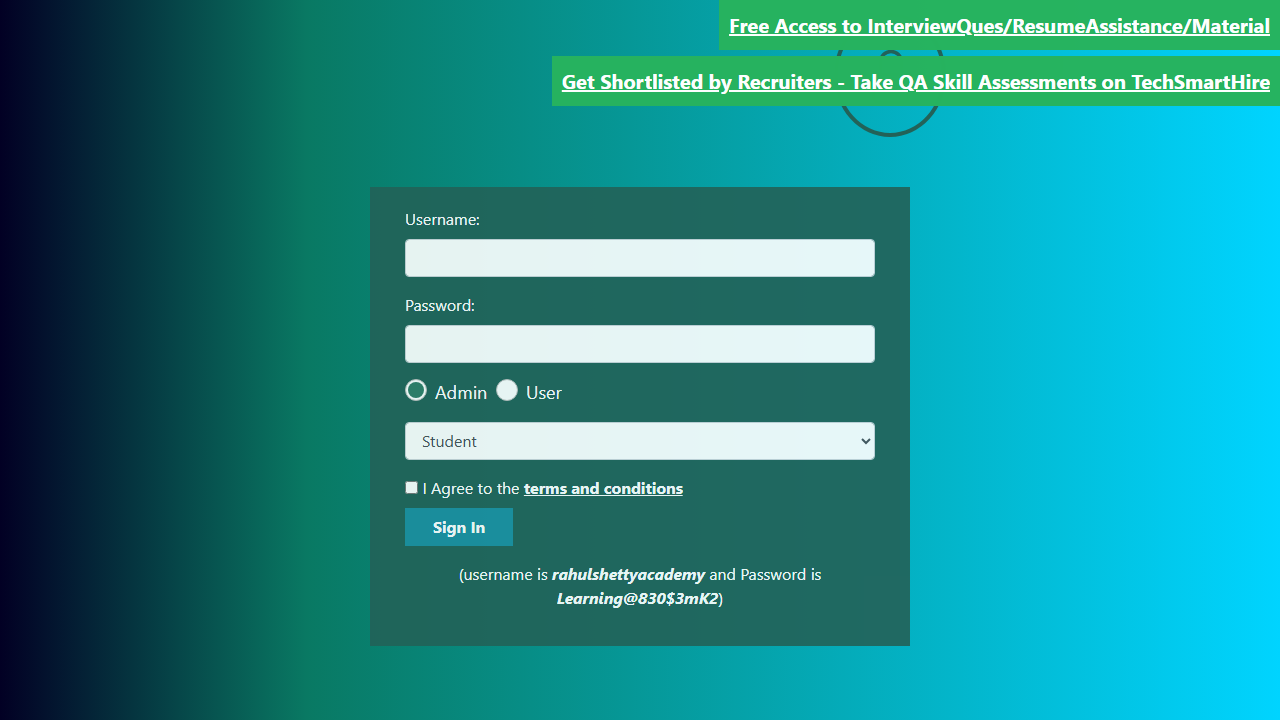
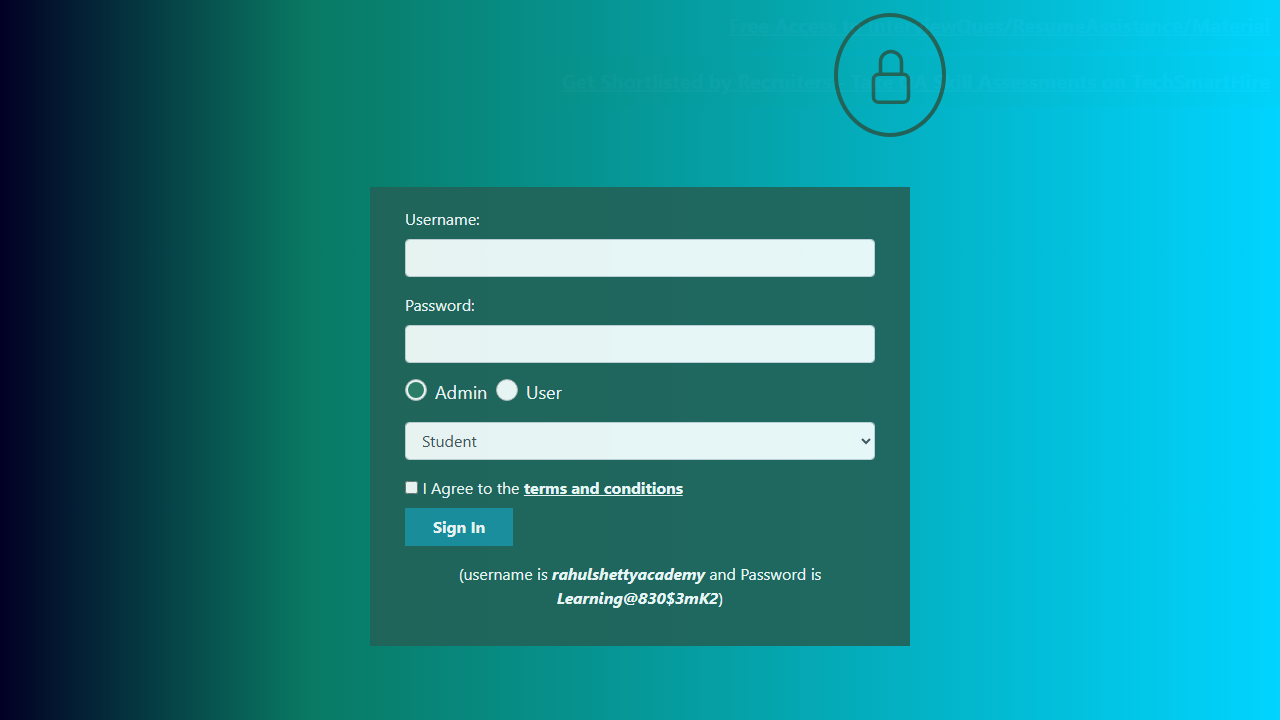
added config.xml for new jenkins scheduled job

Changed region(s): [[0.4062, 0.0, 1.0, 0.1528]]

diff --git a/reports/report.html b/reports/report.html
@@ -328,7 +328,7 @@ div.media {
   </head>
   <body>
     <h1 id="title">report.html</h1>
-    <p>Report generated on 02-Jul-2026 at 09:42:44 by <a href="https://pypi.python.org/pypi/pytest-html">pytest-html</a>
+    <p>Report generated on 02-Jul-2026 at 10:20:56 by <a href="https://pypi.python.org/pypi/pytest-html">pytest-html</a>
         v4.2.0</p>
     <div id="environment-header">
       <h2>Environment</h2>
@@ -383,7 +383,7 @@ div.media {
         <h2>Summary</h2>
         <div class="additional-summary prefix">
         </div>
-        <p class="run-count">4 tests took 00:00:20.</p>
+        <p class="run-count">2 tests took 00:00:31.</p>
         <p class="filter">(Un)check the boxes to filter the results.</p>
         <div class="summary__reload">
           <div class="summary__reload__button hidden" onclick="location.reload()">
@@ -396,7 +396,7 @@ div.media {
             <input checked="true" class="filter" name="filter_checkbox" type="checkbox" data-test-result="failed" disabled>
             <span class="failed">0 Failed,</span>
             <input checked="true" class="filter" name="filter_checkbox" type="checkbox" data-test-result="passed" >
-            <span class="passed">4 Passed,</span>
+            <span class="passed">2 Passed,</span>
             <input checked="true" class="filter" name="filter_checkbox" type="checkbox" data-test-result="skipped" disabled>
             <span class="skipped">0 Skipped,</span>
             <input checked="true" class="filter" name="filter_checkbox" type="checkbox" data-test-result="xfailed" disabled>
@@ -431,7 +431,7 @@ div.media {
       </thead>
     </table>
   <footer>
-    <div id="data-container" data-jsonblob="{&#34;environment&#34;: {&#34;Python&#34;: &#34;3.14.3&#34;, &#34;Platform&#34;: &#34;Windows-11-10.0.26200-SP0&#34;, &#34;Packages&#34;: {&#34;pytest&#34;: &#34;9.0.2&#34;, &#34;pluggy&#34;: &#34;1.6.0&#34;}, &#34;Plugins&#34;: {&#34;base-url&#34;: &#34;2.1.0&#34;, &#34;bdd&#34;: &#34;8.1.0&#34;, &#34;html&#34;: &#34;4.2.0&#34;, &#34;metadata&#34;: &#34;3.1.1&#34;, &#34;playwright&#34;: &#34;0.7.2&#34;, &#34;xdist&#34;: &#34;3.8.0&#34;}, &#34;CI&#34;: &#34;true&#34;, &#34;BUILD_NUMBER&#34;: &#34;3&#34;, &#34;BUILD_ID&#34;: &#34;3&#34;, &#34;BUILD_URL&#34;: &#34;http://localhost:9090/job/PythonPlaywright_all_tests_parameterized_job/3/&#34;, &#34;NODE_NAME&#34;: &#34;built-in&#34;, &#34;JOB_NAME&#34;: &#34;PythonPlaywright_all_tests_parameterized_job&#34;, &#34;BUILD_TAG&#34;: &#34;jenkins-PythonPlaywright_all_tests_parameterized_job-3&#34;, &#34;EXECUTOR_NUMBER&#34;: &#34;1&#34;, &#34;JENKINS_URL&#34;: &#34;http://localhost:9090/&#34;, &#34;JAVA_HOME&#34;: &#34;C:\\Program Files\\Microsoft\\jdk-25.0.1.8-hotspot&#34;, &#34;WORKSPACE&#34;: &#34;C:\\Users\\vdevk\\PycharmProjects\\PythonPlaywright&#34;, &#34;Base URL&#34;: &#34;&#34;}, &#34;tests&#34;: {&#34;framework_step1_pageObject_dataDriven_parameterization/test_API_plus_UI_e2e_test_ecommerce_framework1.py::test_API_plus_UI_e2e_test_ecommerce[user_credentials0]&#34;: [{&#34;extras&#34;: [], &#34;result&#34;: &#34;Passed&#34;, &#34;testId&#34;: &#34;framework_step1_pageObject_dataDriven_parameterization/test_API_plus_UI_e2e_test_ecommerce_framework1.py::test_API_plus_UI_e2e_test_ecommerce[user_credentials0]&#34;, &#34;duration&#34;: &#34;00:00:04&#34;, &#34;resultsTableRow&#34;: [&#34;&lt;td class=\&#34;col-result\&#34;&gt;Passed&lt;/td&gt;&#34;, &#34;&lt;td class=\&#34;col-testId\&#34;&gt;framework_step1_pageObject_dataDriven_parameterization/test_API_plus_UI_e2e_test_ecommerce_framework1.py::test_API_plus_UI_e2e_test_ecommerce[user_credentials0]&lt;/td&gt;&#34;, &#34;&lt;td class=\&#34;col-duration\&#34;&gt;00:00:04&lt;/td&gt;&#34;, &#34;&lt;td class=\&#34;col-links\&#34;&gt;&lt;/td&gt;&#34;], &#34;log&#34;: &#34;----------------------------- Captured stdout call -----------------------------\ncreated Order ID:  6a45e52dcd73adf7e58aa6bd\nno of rows in webtable/orders on page: 7\nLatest order ID in Orders list table: 6a45e52dcd73adf7e58aa6bd\norder ID in order Summary: 6a45e52dcd73adf7e58aa6bd\nMessage: Thank you for Shopping With Us\nproduct name in order Summary: iphone 13 pro\nproduct price in order Summary: $ 55000\nproduct price on home page: $ 55000\n&#34;}], &#34;framework_step1_pageObject_dataDriven_parameterization/test_API_plus_UI_e2e_test_ecommerce_framework1.py::test_API_plus_UI_e2e_test_ecommerce[user_credentials1]&#34;: [{&#34;extras&#34;: [], &#34;result&#34;: &#34;Passed&#34;, &#34;testId&#34;: &#34;framework_step1_pageObject_dataDriven_parameterization/test_API_plus_UI_e2e_test_ecommerce_framework1.py::test_API_plus_UI_e2e_test_ecommerce[user_credentials1]&#34;, &#34;duration&#34;: &#34;00:00:04&#34;, &#34;resultsTableRow&#34;: [&#34;&lt;td class=\&#34;col-result\&#34;&gt;Passed&lt;/td&gt;&#34;, &#34;&lt;td class=\&#34;col-testId\&#34;&gt;framework_step1_pageObject_dataDriven_parameterization/test_API_plus_UI_e2e_test_ecommerce_framework1.py::test_API_plus_UI_e2e_test_ecommerce[user_credentials1]&lt;/td&gt;&#34;, &#34;&lt;td class=\&#34;col-duration\&#34;&gt;00:00:04&lt;/td&gt;&#34;, &#34;&lt;td class=\&#34;col-links\&#34;&gt;&lt;/td&gt;&#34;], &#34;log&#34;: &#34;----------------------------- Captured stdout call -----------------------------\ncreated Order ID:  6a45e530cd73adf7e58aa6e1\nno of rows in webtable/orders on page: 7\nLatest order ID in Orders list table: 6a45e530cd73adf7e58aa6e1\norder ID in order Summary: 6a45e530cd73adf7e58aa6e1\nMessage: Thank you for Shopping With Us\nproduct name in order Summary: iphone 13 pro\nproduct price in order Summary: $ 55000\nproduct price on home page: $ 55000\n&#34;}], &#34;framework_step2_GlobalConfig_parallelization_Tagging_htmlReport_screenshots_logs/test_API_plus_UI_e2e_test_ecommerce_framework2.py::test_API_plus_UI_e2e_test_ecommerce[user_credentials0]&#34;: [{&#34;extras&#34;: [], &#34;result&#34;: &#34;Passed&#34;, &#34;testId&#34;: &#34;framework_step2_GlobalConfig_parallelization_Tagging_htmlReport_screenshots_logs/test_API_plus_UI_e2e_test_ecommerce_framework2.py::test_API_plus_UI_e2e_test_ecommerce[user_credentials0]&#34;, &#34;duration&#34;: &#34;00:00:04&#34;, &#34;resultsTableRow&#34;: [&#34;&lt;td class=\&#34;col-result\&#34;&gt;Passed&lt;/td&gt;&#34;, &#34;&lt;td class=\&#34;col-testId\&#34;&gt;framework_step2_GlobalConfig_parallelization_Tagging_htmlReport_screenshots_logs/test_API_plus_UI_e2e_test_ecommerce_framework2.py::test_API_plus_UI_e2e_test_ecommerce[user_credentials0]&lt;/td&gt;&#34;, &#34;&lt;td class=\&#34;col-duration\&#34;&gt;00:00:04&lt;/td&gt;&#34;, &#34;&lt;td class=\&#34;col-links\&#34;&gt;&lt;/td&gt;&#34;], &#34;log&#34;: &#34;----------------------------- Captured stdout call -----------------------------\ncreated Order ID:  6a45e536cd73adf7e58aa71c\nno of rows in webtable/orders on page: 7\nLatest order ID in Orders list table: 6a45e536cd73adf7e58aa71c\norder ID in order Summary: 6a45e536cd73adf7e58aa71c\nMessage: Thank you for Shopping With Us\nproduct name in order Summary: iphone 13 pro\nproduct price in order Summary: $ 55000\nproduct price on home page: $ 55000\n&#34;}], &#34;framework_step2_GlobalConfig_parallelization_Tagging_htmlReport_screenshots_logs/test_API_plus_UI_e2e_test_ecommerce_framework2.py::test_API_plus_UI_e2e_test_ecommerce[user_credentials1]&#34;: [{&#34;extras&#34;: [], &#34;result&#34;: &#34;Passed&#34;, &#34;testId&#34;: &#34;framework_step2_GlobalConfig_parallelization_Tagging_htmlReport_screenshots_logs/test_API_plus_UI_e2e_test_ecommerce_framework2.py::test_API_plus_UI_e2e_test_ecommerce[user_credentials1]&#34;, &#34;duration&#34;: &#34;00:00:04&#34;, &#34;resultsTableRow&#34;: [&#34;&lt;td class=\&#34;col-result\&#34;&gt;Passed&lt;/td&gt;&#34;, &#34;&lt;td class=\&#34;col-testId\&#34;&gt;framework_step2_GlobalConfig_parallelization_Tagging_htmlReport_screenshots_logs/test_API_plus_UI_e2e_test_ecommerce_framework2.py::test_API_plus_UI_e2e_test_ecommerce[user_credentials1]&lt;/td&gt;&#34;, &#34;&lt;td class=\&#34;col-duration\&#34;&gt;00:00:04&lt;/td&gt;&#34;, &#34;&lt;td class=\&#34;col-links\&#34;&gt;&lt;/td&gt;&#34;], &#34;log&#34;: &#34;----------------------------- Captured stdout call -----------------------------\ncreated Order ID:  6a45e539cd73adf7e58aa739\nno of rows in webtable/orders on page: 7\nLatest order ID in Orders list table: 6a45e539cd73adf7e58aa739\norder ID in order Summary: 6a45e539cd73adf7e58aa739\nMessage: Thank you for Shopping With Us\nproduct name in order Summary: iphone 13 pro\nproduct price in order Summary: $ 55000\nproduct price on home page: $ 55000\n&#34;}]}, &#34;renderCollapsed&#34;: [&#34;passed&#34;], &#34;initialSort&#34;: &#34;result&#34;, &#34;title&#34;: &#34;report.html&#34;}"></div>
+    <div id="data-container" data-jsonblob="{&#34;environment&#34;: {&#34;Python&#34;: &#34;3.14.3&#34;, &#34;Platform&#34;: &#34;Windows-11-10.0.26200-SP0&#34;, &#34;Packages&#34;: {&#34;pytest&#34;: &#34;9.0.2&#34;, &#34;pluggy&#34;: &#34;1.6.0&#34;}, &#34;Plugins&#34;: {&#34;base-url&#34;: &#34;2.1.0&#34;, &#34;bdd&#34;: &#34;8.1.0&#34;, &#34;html&#34;: &#34;4.2.0&#34;, &#34;metadata&#34;: &#34;3.1.1&#34;, &#34;playwright&#34;: &#34;0.7.2&#34;, &#34;xdist&#34;: &#34;3.8.0&#34;}, &#34;CI&#34;: &#34;true&#34;, &#34;BUILD_NUMBER&#34;: &#34;1&#34;, &#34;BUILD_ID&#34;: &#34;1&#34;, &#34;BUILD_URL&#34;: &#34;http://localhost:9090/job/PythonPlaywright_all_tests_parameterized_scheduled_job/1/&#34;, &#34;NODE_NAME&#34;: &#34;built-in&#34;, &#34;JOB_NAME&#34;: &#34;PythonPlaywright_all_tests_parameterized_scheduled_job&#34;, &#34;BUILD_TAG&#34;: &#34;jenkins-PythonPlaywright_all_tests_parameterized_scheduled_job-1&#34;, &#34;EXECUTOR_NUMBER&#34;: &#34;1&#34;, &#34;JENKINS_URL&#34;: &#34;http://localhost:9090/&#34;, &#34;JAVA_HOME&#34;: &#34;C:\\Program Files\\Microsoft\\jdk-25.0.1.8-hotspot&#34;, &#34;WORKSPACE&#34;: &#34;C:\\Users\\vdevk\\PycharmProjects\\PythonPlaywright&#34;, &#34;Base URL&#34;: &#34;&#34;}, &#34;tests&#34;: {&#34;API_plus_UI_e2e_test_ecommerce/test_API_plus_UI_e2e_test_ecommerce.py::test_API_plus_UI_e2e_test_ecommerce&#34;: [{&#34;extras&#34;: [], &#34;result&#34;: &#34;Passed&#34;, &#34;testId&#34;: &#34;API_plus_UI_e2e_test_ecommerce/test_API_plus_UI_e2e_test_ecommerce.py::test_API_plus_UI_e2e_test_ecommerce&#34;, &#34;duration&#34;: &#34;00:00:03&#34;, &#34;resultsTableRow&#34;: [&#34;&lt;td class=\&#34;col-result\&#34;&gt;Passed&lt;/td&gt;&#34;, &#34;&lt;td class=\&#34;col-testId\&#34;&gt;API_plus_UI_e2e_test_ecommerce/test_API_plus_UI_e2e_test_ecommerce.py::test_API_plus_UI_e2e_test_ecommerce&lt;/td&gt;&#34;, &#34;&lt;td class=\&#34;col-duration\&#34;&gt;00:00:03&lt;/td&gt;&#34;, &#34;&lt;td class=\&#34;col-links\&#34;&gt;&lt;/td&gt;&#34;], &#34;log&#34;: &#34;----------------------------- Captured stdout call -----------------------------\ncreated Order ID:  6a45ee18cd73adf7e58abbe0\nno of rows in webtable: 7\nLatest order ID in Orders list table: 6a45ee18cd73adf7e58abbe0\norder ID in order Summary: 6a45ee18cd73adf7e58abbe0\nproduct name in order Summary: iphone 13 pro\nproduct price in order Summary: $ 55000\nproduct price on home page: $ 55000\n&#34;}], &#34;test_playwrightbasics.py::test_coreLocators[chromium]&#34;: [{&#34;extras&#34;: [], &#34;result&#34;: &#34;Passed&#34;, &#34;testId&#34;: &#34;test_playwrightbasics.py::test_coreLocators[chromium]&#34;, &#34;duration&#34;: &#34;00:00:22&#34;, &#34;resultsTableRow&#34;: [&#34;&lt;td class=\&#34;col-result\&#34;&gt;Passed&lt;/td&gt;&#34;, &#34;&lt;td class=\&#34;col-testId\&#34;&gt;test_playwrightbasics.py::test_coreLocators[chromium]&lt;/td&gt;&#34;, &#34;&lt;td class=\&#34;col-duration\&#34;&gt;00:00:22&lt;/td&gt;&#34;, &#34;&lt;td class=\&#34;col-links\&#34;&gt;&lt;/td&gt;&#34;], &#34;log&#34;: &#34;No log output captured.&#34;}]}, &#34;renderCollapsed&#34;: [&#34;passed&#34;], &#34;initialSort&#34;: &#34;result&#34;, &#34;title&#34;: &#34;report.html&#34;}"></div>
     <script>
       (function(){function r(e,n,t){function o(i,f){if(!n[i]){if(!e[i]){var c="function"==typeof require&&require;if(!f&&c)return c(i,!0);if(u)return u(i,!0);var a=new Error("Cannot find module '"+i+"'");throw a.code="MODULE_NOT_FOUND",a}var p=n[i]={exports:{}};e[i][0].call(p.exports,function(r){var n=e[i][1][r];return o(n||r)},p,p.exports,r,e,n,t)}return n[i].exports}for(var u="function"==typeof require&&require,i=0;i<t.length;i++)o(t[i]);return o}return r})()({1:[function(require,module,exports){
 const { getCollapsedCategory, setCollapsedIds } = require('./storage.js')
